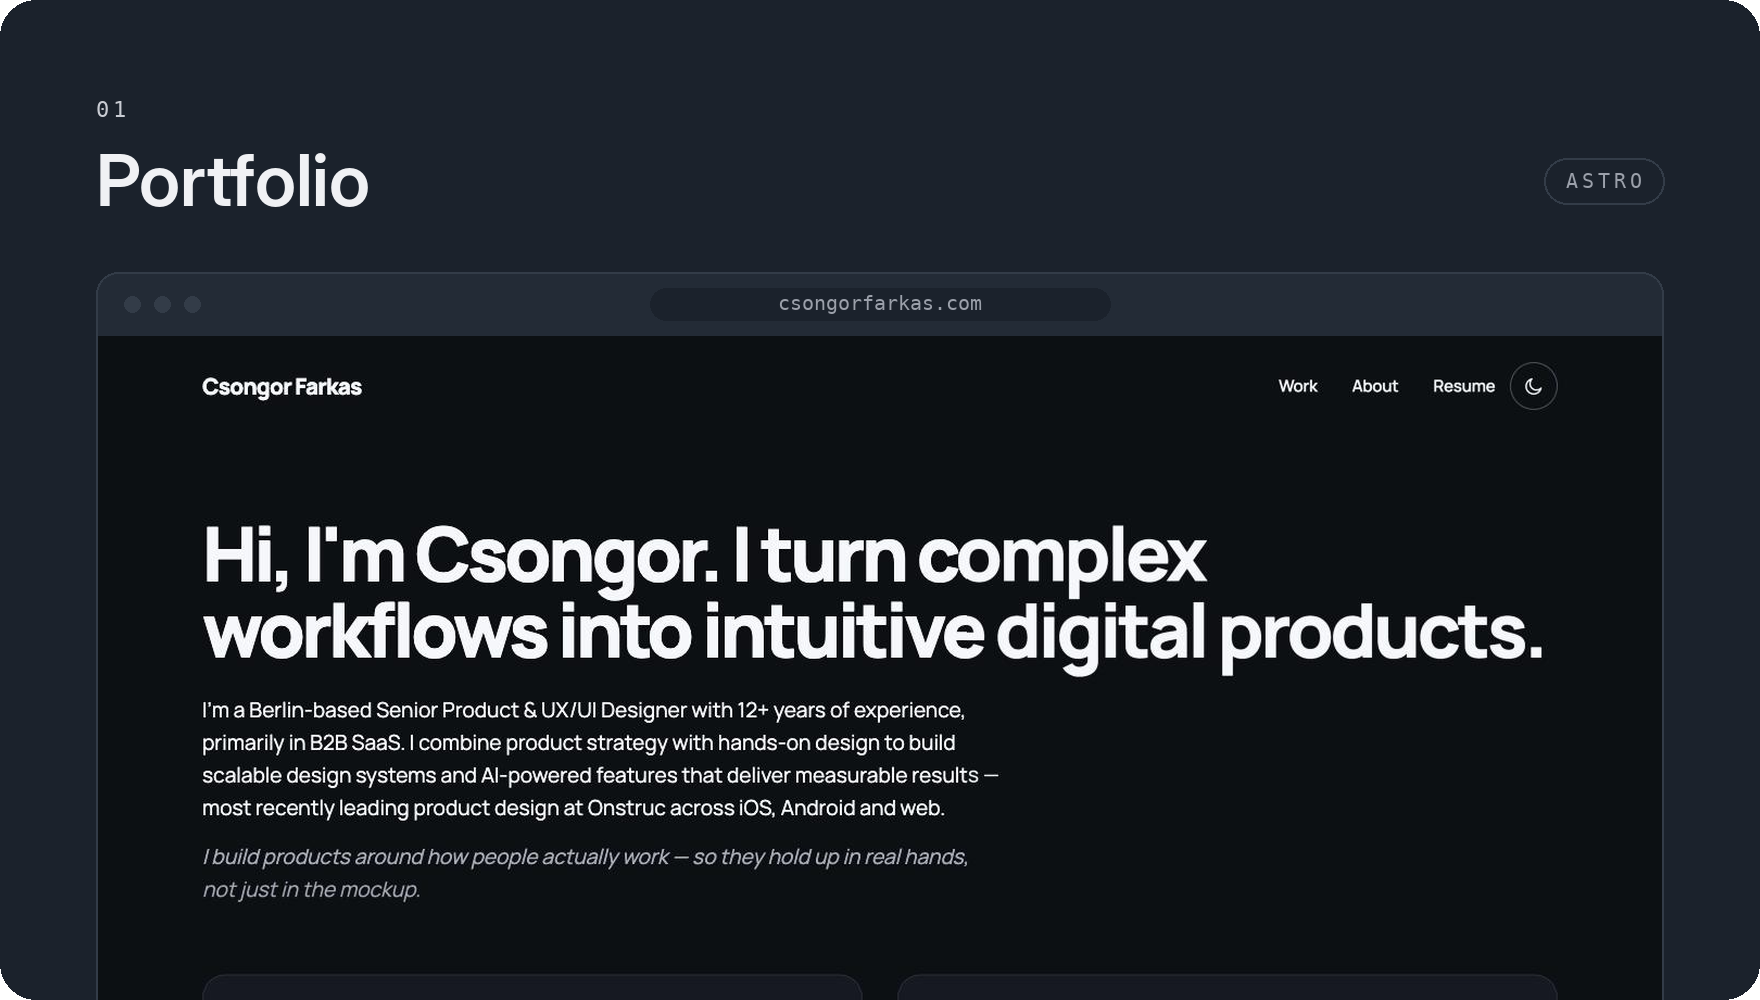
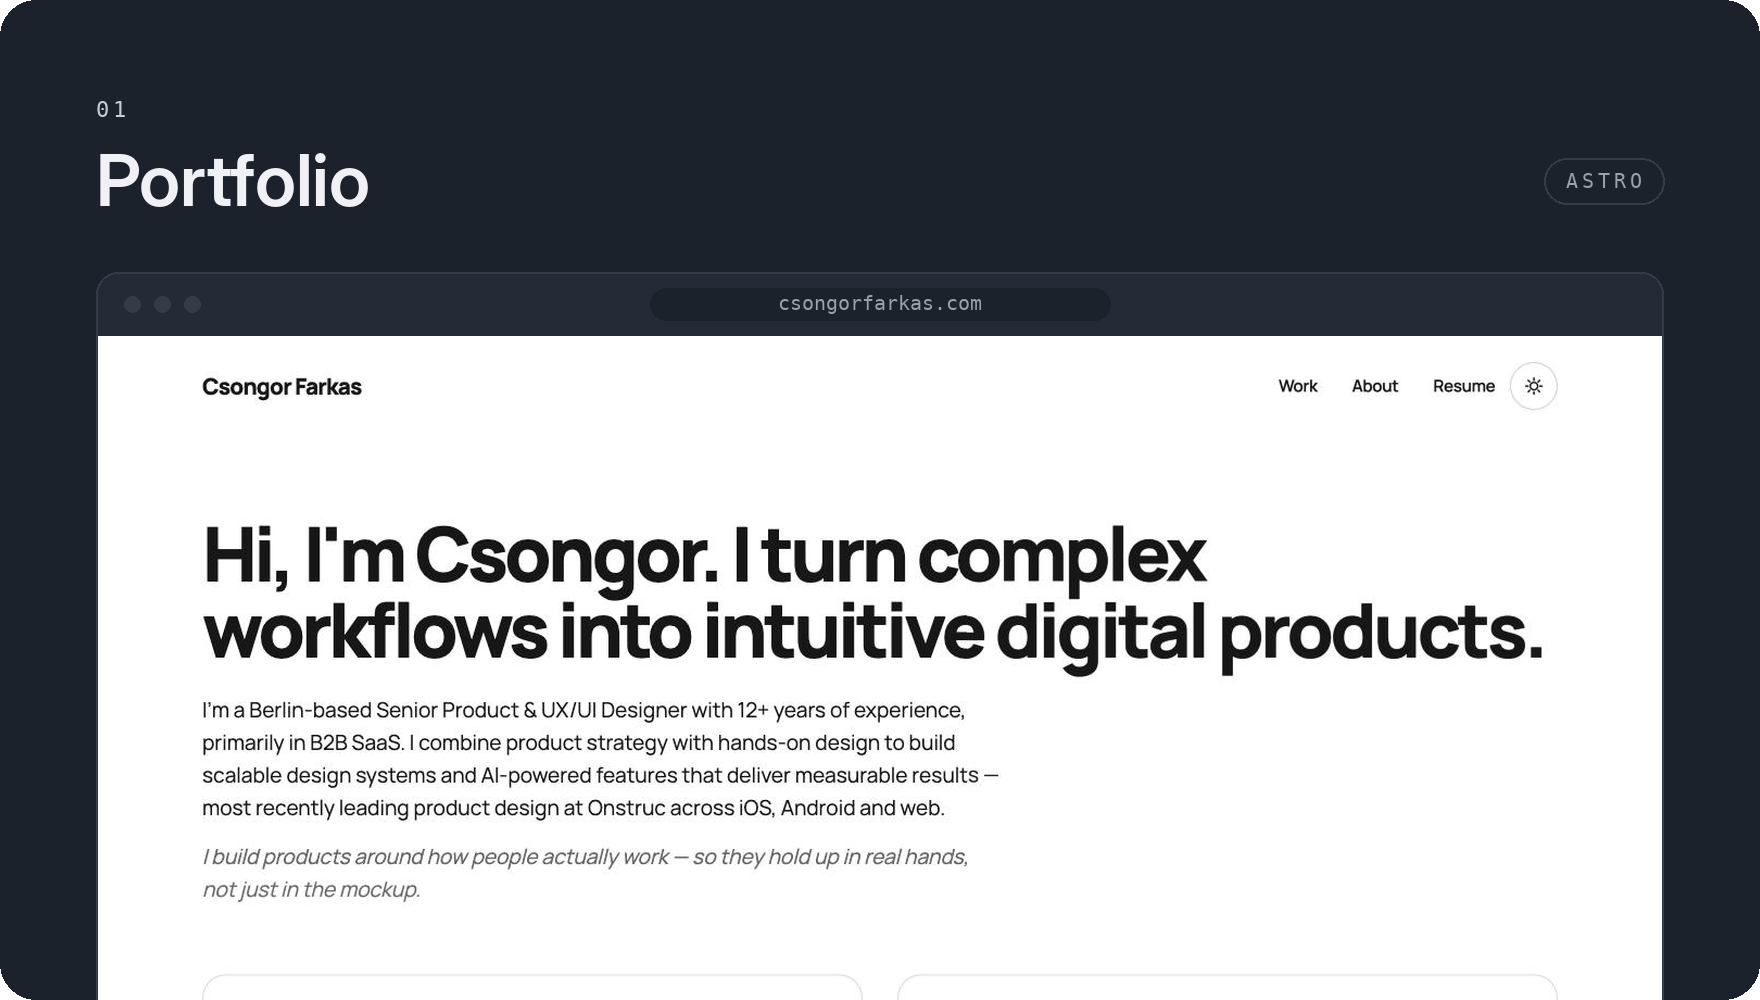
Update profile README to approved final version
Headings without numbers, new Contact line, Frontend category, updated Design Engineering & Prototyping line, light-theme portfolio card and matching project card layout.

diff --git a/README.md b/README.md
@@ -10,7 +10,7 @@ I work across the entire product lifecycle — from strategy, discovery and UX r
 
 <br />
 
-## 02 — What I do
+## What I do
 
 **Product Design**<br />
 Strategy, discovery, UX research and interaction design.
@@ -25,17 +25,17 @@ Scalable components, design tokens and cross-platform consistency.
 Making complex workflows simpler and more useful.
 
 **Design Engineering & Prototyping**<br />
-Bringing ideas into implementation through HTML, CSS, Astro and Tailwind CSS.
+Translating design concepts into working interfaces through HTML, CSS, Astro and Tailwind CSS.
 
 <br />
 
-## 03 — Selected work
+## Selected work
 
 <a href="https://csongorfarkas.com">
   <img src="./assets/work-portfolio.png" width="100%" alt="Portfolio: screenshot of csongorfarkas.com, built with Astro" />
 </a>
 
-**Portfolio** · Astro<br />
+[**Portfolio**](https://csongorfarkas.com) · Astro<br />
 Personal portfolio — product design, UX/UI and digital experiences.<br />
 [csongorfarkas.com ↗](https://csongorfarkas.com)
 
@@ -45,25 +45,25 @@ Personal portfolio — product design, UX/UI and digital experiences.<br />
   <img src="./assets/work-sonic-north.png" width="100%" alt="Sonic North Studio: screenshot of sonicnorthstudio.com, built with Tailwind CSS" />
 </a>
 
-**Sonic North Studio** · Tailwind CSS<br />
+[**Sonic North Studio**](https://sonicnorthstudio.com) · Tailwind CSS<br />
 Independent sound-design brand — visual identity, digital experience and frontend implementation.<br />
 [sonicnorthstudio.com ↗](https://sonicnorthstudio.com)
 
 <br />
 
-## 04 — Tools & technologies
+## Tools & technologies
 
 <table>
   <tr><td><b>Design</b></td><td>Figma · FigJam · Tokens Studio · Adobe Creative Cloud</td></tr>
-  <tr><td><b>Development</b></td><td>HTML · CSS · Astro · Tailwind CSS</td></tr>
+  <tr><td><b>Frontend</b></td><td>HTML · CSS · Astro · Tailwind CSS</td></tr>
   <tr><td><b>Collaboration</b></td><td>Storybook · Git · GitHub · Jira</td></tr>
   <tr><td><b>AI</b></td><td>Claude · ChatGPT</td></tr>
 </table>
 
 <br />
 
-## 05 — Contact
+## Contact
 
-Happy to connect about thoughtful digital products, product design and interesting design challenges.
+Open to connecting with people building thoughtful digital products and solving interesting design challenges.
 
 [Portfolio ↗](https://csongorfarkas.com) &nbsp;·&nbsp; [LinkedIn ↗](https://www.linkedin.com/in/csongor-farkas/)
